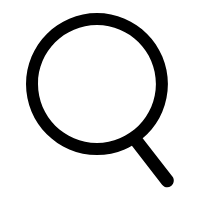
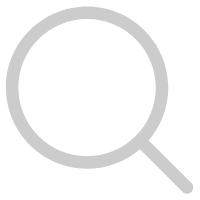
add search-box

Changed region(s): [[0.03, 0.03, 0.99, 0.99]]

diff --git a/Gren.html b/Gren.html
@@ -30,7 +30,7 @@
 		height: 0.6rem;
 		margin: 0 auto;
 		background-color: #fff;
-
+		position: relative;
 
 	}
 	.header-list {
@@ -45,19 +45,33 @@
 	.header-list a:hover{
 		background-color: #999;
 	}
-	/*
-	.search-box input{
-		width: 1.5rem;
-		height: 0.25rem;
-		border: 1px solid #eee;
-		border-radius: 8px;
-		display: block;
-		margin-top: 0.1rem;
-		margin-right: 0.4rem;
-		outline: none;
-		
+	.search-box{
+		position:absolute;
+		right:0;
+		top:0.15rem;
 	}
-*/
+	.search-box input{
+		width: 2rem;
+		height: 0.3rem;
+		border: 1px solid #ddd;
+		border-radius: 8px;
+		display: inline-block;
+		padding: 0 10px;
+		outline: none;
+	}
+	.search-button img{
+		width: 20px;
+		height: 20px;
+	}
+	.search-button{
+		border: none;
+		background: transparent;
+		position: relative;
+		right: 50px;
+		top: 5px;
+		cursor: pointer;
+	}
+
 	.main-container{
 		margin: 0 auto;
 		width: 80%;
@@ -68,7 +82,7 @@
 		flex-wrap: wrap;
 		justify-content:space-between; 
 		margin:0.4rem 0;
-		padding: 0.4rem 0.2rem;
+		padding: 0.4rem 0.4rem;
 		border: 1px solid #ccc;
 		border-radius: 12px;
 		background-color: #fff;
@@ -81,7 +95,7 @@
 			border-radius: 8px;
 			flex-basis: 28%;
 			height: 1.5rem;
-			margin: 0.2em;
+			margin: 0.2rem 0;
 			
 
 		}
@@ -114,20 +128,20 @@
 			<li class="header-list selected"><a href="#">首页</a></li>
 			<li class="header-list""><a href="#">导航</a></li>
 			<li class="header-list"><a href="#">小工具</a></li>
-			<!-- <li>
+			<li>
 			<div class="search-box">
 				<form>
 					<input type="text" name="search" method="get" placeholder="搜索...">
-					<button class="search-button"></button>
+					<button class="search-button"><img src="images/search.png"></button>
 				</form>
 			</div>
-			</li> -->
+			</li>
 		</ul>
 		</div>
 	</header>
 	<div class="main-container">
 		<div class="wrapper">
-		<img src="images/bag-dollar.png">
+		<img src="images/3mi.jpg">
 				<div class="item"></div>
 				<div class="item"></div>
 				<div class="item"></div>
@@ -136,7 +150,25 @@
 				<div class="item"></div>
 		</div>	
 		<div class="wrapper">
-		<img src="images/bag-dollar.png">
+		<img src="images/lim.jpg">
+				<div class="item"></div>
+				<div class="item"></div>
+				<div class="item"></div>
+				<div class="item"></div>
+				<div class="item"></div>
+				<div class="item"></div>
+		</div>	
+		<div class="wrapper">
+		<img src="images/int.jpg">
+				<div class="item"></div>
+				<div class="item"></div>
+				<div class="item"></div>
+				<div class="item"></div>
+				<div class="item"></div>
+				<div class="item"></div>
+		</div>	
+		<div class="wrapper">
+		<img src="images/pie.jpg">
 				<div class="item"></div>
 				<div class="item"></div>
 				<div class="item"></div>
@@ -145,7 +177,7 @@
 				<div class="item"></div>
 		</div>	
 		</div>
-
+	</div>
 	</div>
 </body>
 </html>
